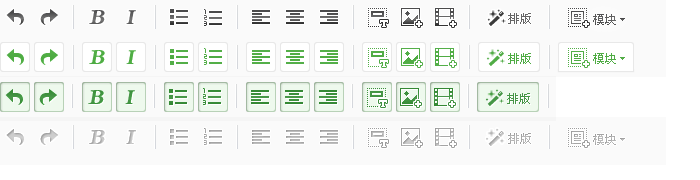
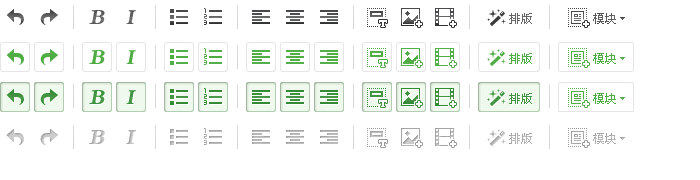
[fixed] by xuheng

diff --git a/_src/plugins/_graphictemplate.js b/_src/plugins/_graphictemplate.js
@@ -1,14 +1,14 @@
 UE.plugins['graphictemplate'] = function () {
     var me = this;
     var id = 0;
-    me["graphictemplate"]={};
+    me["graphictemplate"] = {};
 
 
     me.commands['graphictemplate'] = {
-        execCommand:function (cmd,value) {
+        execCommand:function (cmd, value) {
             id += 1;
             var ifr = "<iframe  width='678'  align='center' scroling='no' frameborder='0'" +
-                "class='foodtemplate'" +
+                "class='" + value + "template'" +
                 "id='" + id + "'" +
                 "src=" + me.options["graphictemplateUrlMap"][value] +
                 "></iframe>";
@@ -22,10 +22,10 @@ UE.plugins['graphictemplate'] = function () {
 
     me.addOutputRule(function (root) {
         utils.each(root.getNodesByTagName('iframe'), function (node) {
-            var val;
-            if ((val = node.getAttr('class')) && /foodtemplate/.test(val)) {
-                var id=node.getAttr('id');
-                var str =me['graphictemplate'][id];
+            var val = node.getAttr('class');
+            if (val && /((food)|(fitment)|(soft))template/.test(val)) {
+                var id = node.getAttr('id');
+                var str = stringify(me['graphictemplate'][id]);
                 node.tagName = 'pre';
                 var attrs = {
                     'data-type':val,
@@ -44,15 +44,15 @@ UE.plugins['graphictemplate'] = function () {
         var me = this;
         utils.each(root.getNodesByTagName('pre'), function (pi) {
             var val;
-            if (val = pi.getAttr('class') && /foodtemplate/.test(val)) {
+            if ((val = pi.getAttr('class')) && /((food)|(fitment)|(soft))template/.test(val)) {
                 var tmpDiv = me.document.createElement('div');
                 var data = (new Function('return' + pi.innerHTML()))();
 
-                tmpDiv.innerHTML = "<iframe  width='600' height='210' unselectable='on' align='center' scroling='no' frameborder='0'" +
+                tmpDiv.innerHTML = "<iframe  width='678'  align='center' scroling='no' frameborder='0'" +
                     "id='" + pi.getAttr("id") + "'" +
-                    "src=" + pi.getAttr("src") +
                     "class='" + pi.getAttr("class") + "'" +
                     "data_type='" + val + "'" +
+                    "src=" + pi.getAttr("src") +
                     "></iframe>";
 
                 var node = UE.uNode.createElement(tmpDiv.innerHTML);
@@ -63,27 +63,168 @@ UE.plugins['graphictemplate'] = function () {
     });
 
     //销毁被删除iframe对应的数据
-    me.addListener("contentchange",function(){
+    me.addListener("contentchange", function () {
 
     });
 
     //缓存所有iframe高度，阻止undo属性改变时重复保存
-    var heightStorage=[];
-    me.addListener("beforegetscene",function(){
-        heightStorage=[];
-        utils.each(domUtils.getElementsByTagName(me.body,"iframe","foodtemplate"),function(node){
-            var tmp=node.getAttribute("height");
-            if(tmp){
+    var heightStorage = [];
+    me.addListener("beforegetscene", function () {
+        heightStorage = [];
+        utils.each(domUtils.getElementsByTagName(me.body, "iframe", "foodtemplate"), function (node) {
+            var tmp = node.getAttribute("height");
+            if (tmp) {
                 heightStorage.push(tmp);
             }
             node.removeAttribute("height");
         });
     });
-    me.addListener("aftergetscene",function(){
-        if(heightStorage.length){
-            utils.each(domUtils.getElementsByTagName(me.body,"iframe","foodtemplate"),function(node,i){
-                node.setAttribute("height",heightStorage[i]);
+    me.addListener("aftergetscene", function () {
+        if (heightStorage.length) {
+            utils.each(domUtils.getElementsByTagName(me.body, "iframe", "foodtemplate"), function (node, i) {
+                node.setAttribute("height", heightStorage[i]);
             });
         }
     });
+
+
+    var stringify = (function () {
+        /**
+         * 字符串处理时需要转义的字符表
+         * @private
+         */
+        var escapeMap = {
+            "\b":'\\b',
+            "\t":'\\t',
+            "\n":'\\n',
+            "\f":'\\f',
+            "\r":'\\r',
+            '"':'\\"',
+            "\\":'\\\\'
+        };
+
+        /**
+         * 字符串序列化
+         * @private
+         */
+        function encodeString(source) {
+            if (/["\\\x00-\x1f]/.test(source)) {
+                source = source.replace(
+                    /["\\\x00-\x1f]/g,
+                    function (match) {
+                        var c = escapeMap[match];
+                        if (c) {
+                            return c;
+                        }
+                        c = match.charCodeAt();
+                        return "\\u00"
+                            + Math.floor(c / 16).toString(16)
+                            + (c % 16).toString(16);
+                    });
+            }
+            return '"' + source + '"';
+        }
+
+        /**
+         * 数组序列化
+         * @private
+         */
+        function encodeArray(source) {
+            var result = ["["],
+                l = source.length,
+                preComma, i, item;
+
+            for (i = 0; i < l; i++) {
+                item = source[i];
+
+                switch (typeof item) {
+                    case "undefined":
+                    case "function":
+                    case "unknown":
+                        break;
+                    default:
+                        if (preComma) {
+                            result.push(',');
+                        }
+                        result.push(baidu.json.stringify(item));
+                        preComma = 1;
+                }
+            }
+            result.push("]");
+            return result.join("");
+        }
+
+        /**
+         * 处理日期序列化时的补零
+         * @private
+         */
+        function pad(source) {
+            return source < 10 ? '0' + source : source;
+        }
+
+        /**
+         * 日期序列化
+         * @private
+         */
+        function encodeDate(source) {
+            return '"' + source.getFullYear() + "-"
+                + pad(source.getMonth() + 1) + "-"
+                + pad(source.getDate()) + "T"
+                + pad(source.getHours()) + ":"
+                + pad(source.getMinutes()) + ":"
+                + pad(source.getSeconds()) + '"';
+        }
+
+        return function (value) {
+            switch (typeof value) {
+                case 'undefined':
+                    return 'undefined';
+
+                case 'number':
+                    return isFinite(value) ? String(value) : "null";
+
+                case 'string':
+                    return encodeString(value);
+
+                case 'boolean':
+                    return String(value);
+
+                default:
+                    if (value === null) {
+                        return 'null';
+                    } else if (value instanceof Array) {
+                        return encodeArray(value);
+                    } else if (value instanceof Date) {
+                        return encodeDate(value);
+                    } else {
+                        var result = ['{'],
+                            encode = stringify,
+                            preComma,
+                            item;
+
+                        for (var key in value) {
+                            if (Object.prototype.hasOwnProperty.call(value, key)) {
+                                item = value[key];
+                                switch (typeof item) {
+                                    case 'undefined':
+                                    case 'unknown':
+                                    case 'function':
+                                        break;
+                                    default:
+                                        if (preComma) {
+                                            result.push(',');
+                                        }
+                                        preComma = 1;
+                                        result.push(encode(key) + ':' + encode(item));
+                                }
+                            }
+                        }
+                        result.push('}');
+                        return result.join('');
+                    }
+            }
+        };
+    })();
+
+
 };

diff --git a/_graphictemplate/soft/soft.js b/_graphictemplate/soft/soft.js
@@ -12,6 +12,7 @@ var Soft = {
 
         me._addPageListener();
         me.setPageData(data);
+        me.savePageData();
         moveTemplate("J_drag");
         iframeAutoHeight();
     },
@@ -67,7 +68,9 @@ var Soft = {
         money.style.cursor = isEdit ? "not-allowed" : "default";
         cur && (cur.checked = isEdit);
     },
-
+    _innerTxt:function(node){
+        return   node.innerText || node.textContent || node.nodeValue;
+    },
     _setTextBox:function (data, list) {
         for (var i = 0, id; id = list[i++];) {
             G(id).value = data[id];
@@ -82,12 +85,13 @@ var Soft = {
         }
     },
     _setRadioValue:function (data, list) {
+        var me=this;
         for (var i = 0, obj; obj = list[i++];) {
             var cur = G(obj.id1);
             var standardTxt = domUtils.getNextDomNode(cur, function (node) {
                 return node.nodeType == 3 && !domUtils.isFillChar(node)
             });
-            if (standardTxt == data[obj.id1]) {
+            if (me._innerTxt(standardTxt) == data[obj.id1]) {
                 obj.callBack(true, cur);
             } else {
                 G(obj.id2).checked = true;
@@ -136,14 +140,16 @@ var Soft = {
         }
     },
     _saveRadioValue:function (data, list) {
+        var me=this;
         var cur, txt;
         for (var i = 0, id; id = list[i++];) {
             cur = G(id);
             txt = "";
             if (cur.checked) {
-                txt = domUtils.getNextDomNode(cur, function (node) {
+                var tmp = domUtils.getNextDomNode(cur, function (node) {
                     return node.nodeType == 3 && !domUtils.isFillChar(node)
                 });
+                txt=me._innerTxt(tmp);
             }
             data[id] = txt;
         }

diff --git a/themes/default/_css/_buttonicon.css b/themes/default/_css/_buttonicon.css
@@ -39,7 +39,7 @@
     background-position: -116px -42px;
 }
 .edui-default  .edui-for-italic .edui-state-checked .edui-icon,
-.edui-default .edui-for-bold .edui-state-checked .edui-icon {
+.edui-default .edui-for-italic .edui-state-checked .edui-icon {
     background-position: -116px -82px;
 }
 

diff --git a/_graphictemplate/food/food.js b/_graphictemplate/food/food.js
@@ -46,6 +46,7 @@ Food.prototype = {
 
             me._addPageListener();
             me.setPageData(data);
+            me.savePageData();
             moveTemplate("J_drag");
             iframeAutoHeight();
         },

diff --git a/_graphictemplate/fitment/fitment.js b/_graphictemplate/fitment/fitment.js
@@ -12,6 +12,7 @@ Fitment = {
 
         me._addPageListener();
         me.setPageData(data);
+        me.savePageData();
         moveTemplate("J_drag");
         iframeAutoHeight();
     },
